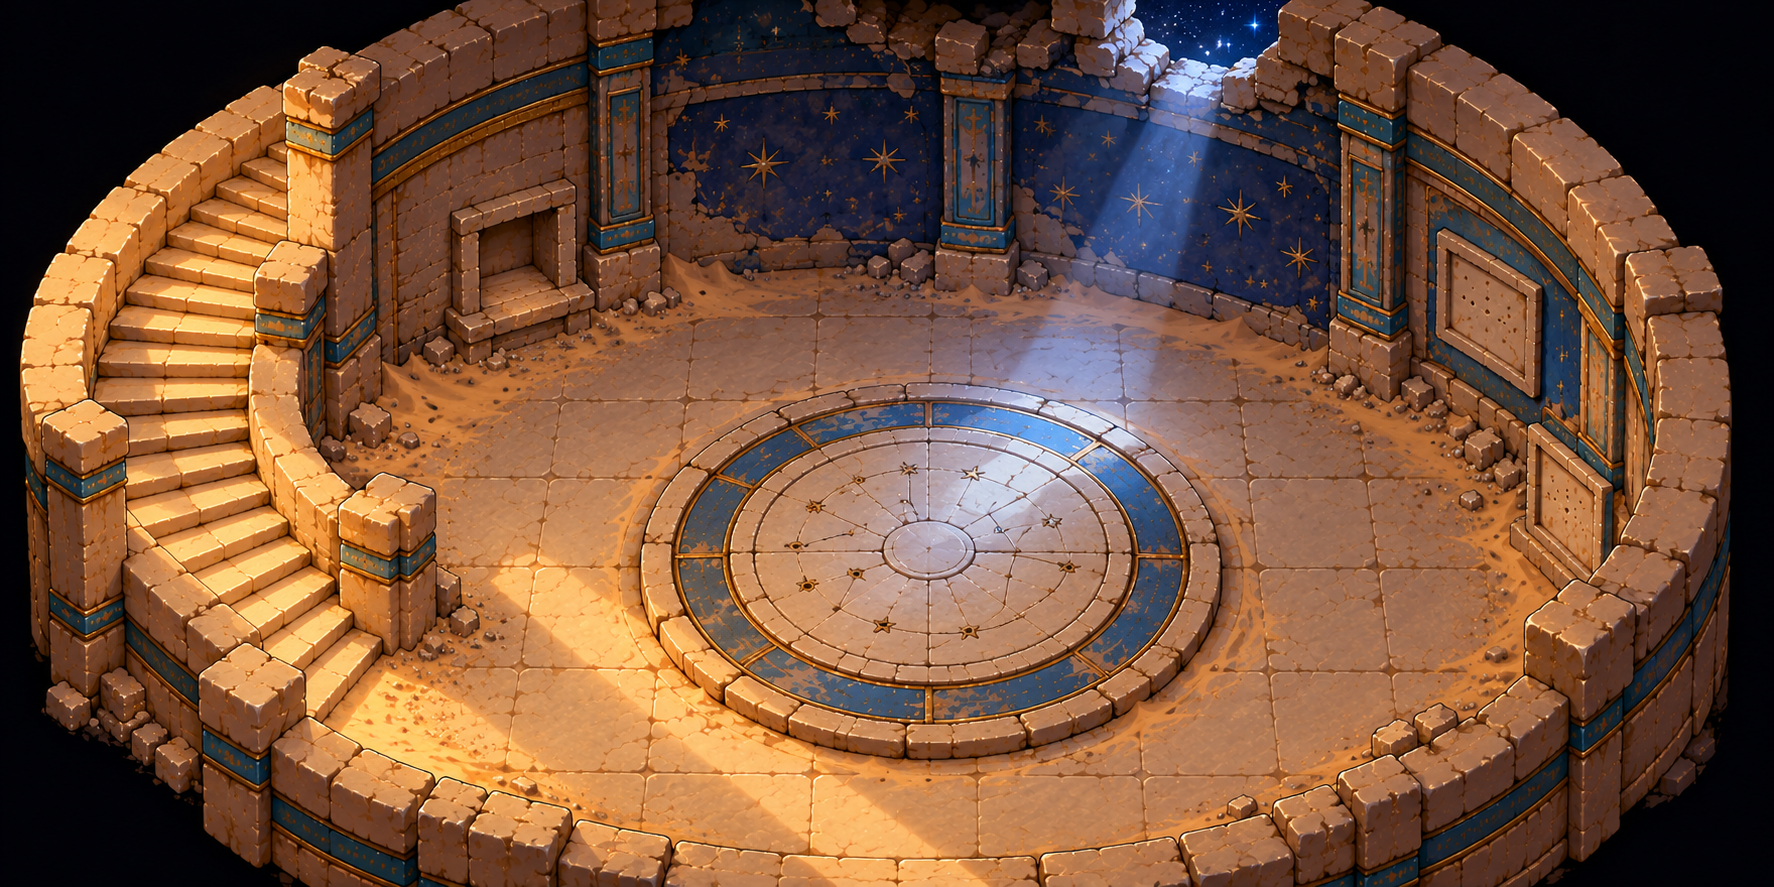
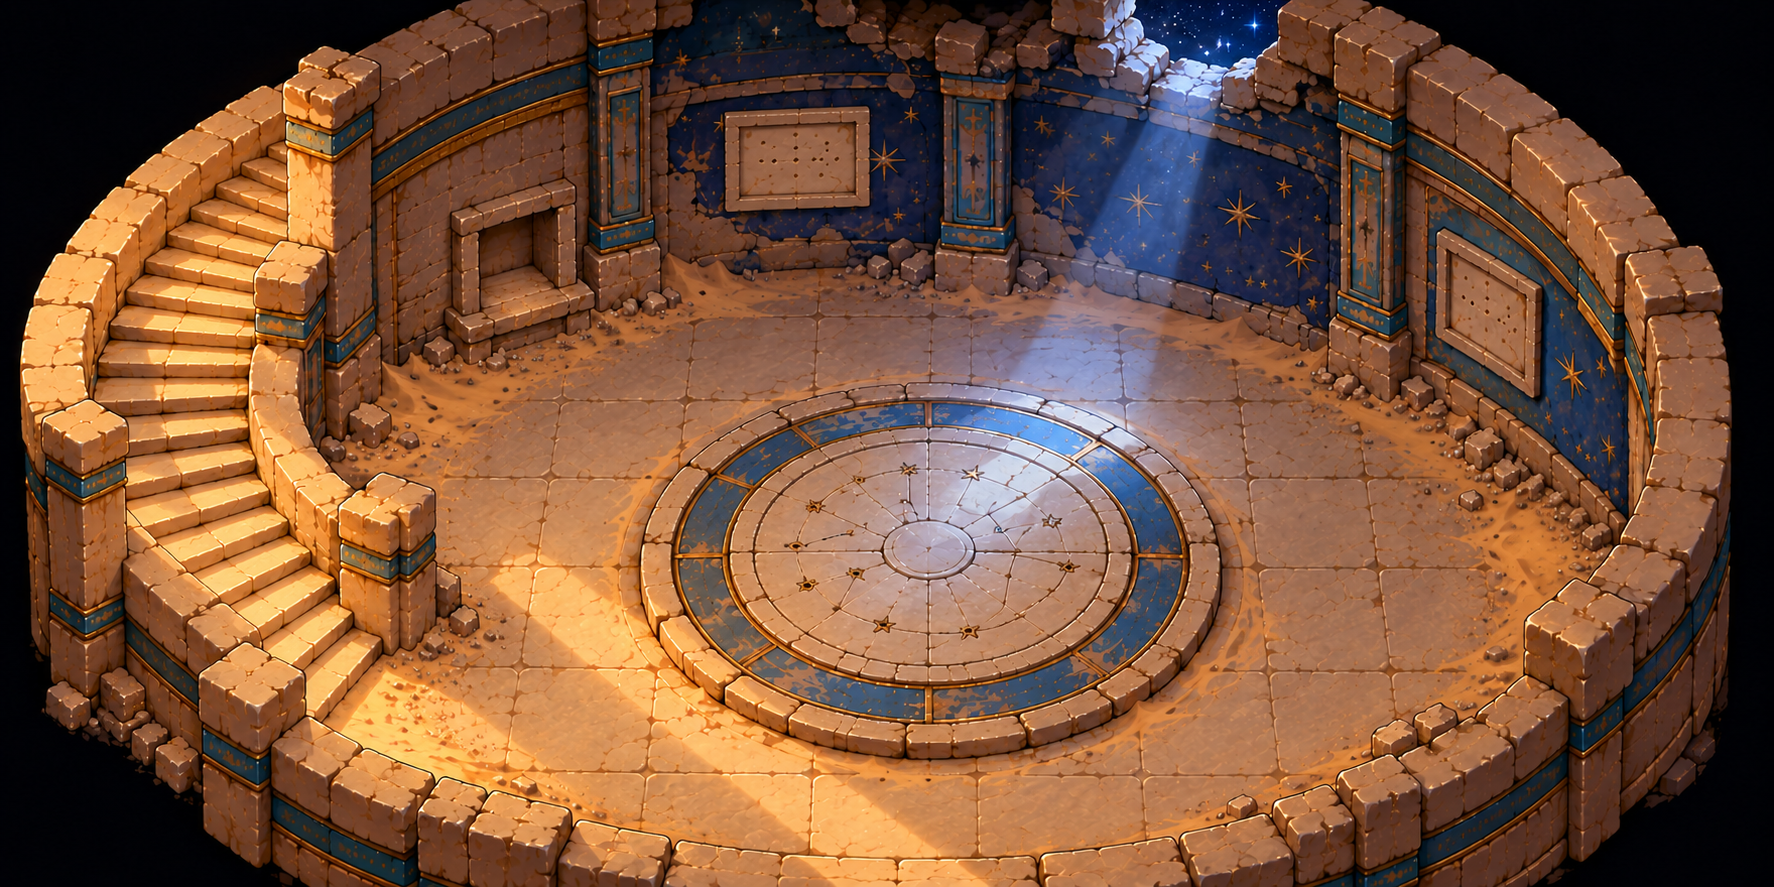
art: replace approved observatory19 with relocated panel version

diff --git a/docs/ASTRA-DRAW-STATE.md b/docs/ASTRA-DRAW-STATE.md
@@ -2,7 +2,7 @@
 
 ## 사막 현재 작업
 
-19 단서판 위치 수정 확인 대기: `art/desert-19-panel-revision-2026-10-16/revised.png`. 오른쪽 위 판 유지, 아래쪽 옆면 판을 뒤쪽 중앙 왼편 벽으로 이동. 기존 채택 원본 보존. 수정 밖 픽셀 동일성 미검증. 01 입구 추가 작업은 아직 미생성.
+19 단서판 위치 수정본 채택·최종 교체 완료: `art/desert-19-panel-revision-2026-10-16/revised.png`. 오른쪽 위 판 유지, 아래쪽 옆면 판을 뒤쪽 중앙 왼편 벽으로 이동. 최종은 `art/desert-19-approved-2026-10-16/approved-final.png`. 이전 그림은 before-panel-move.png로 보존. 수정 밖 픽셀 동일성 미검증. 01 입구 추가 작업은 아직 미생성.
 
 19번 원형·별빛 시안 4 채택: `art/desert-19-approved-2026-10-16/approved-final.png`. 이전 시안: `art/desert-19-round-candidates-2026-10-16/`. 최신 사용자 지시로 사각 방을 원형으로 변경. 별 문양은 작동 검증 전 시안. 다음 작업은 01 원판 개방 상태 추가. 오른쪽으로 뚜껑 이동·왼쪽 계단 노출 대 중앙 개방 방식 검토 중이며 미생성. 기존01 닫힘 원본 보존.
 
